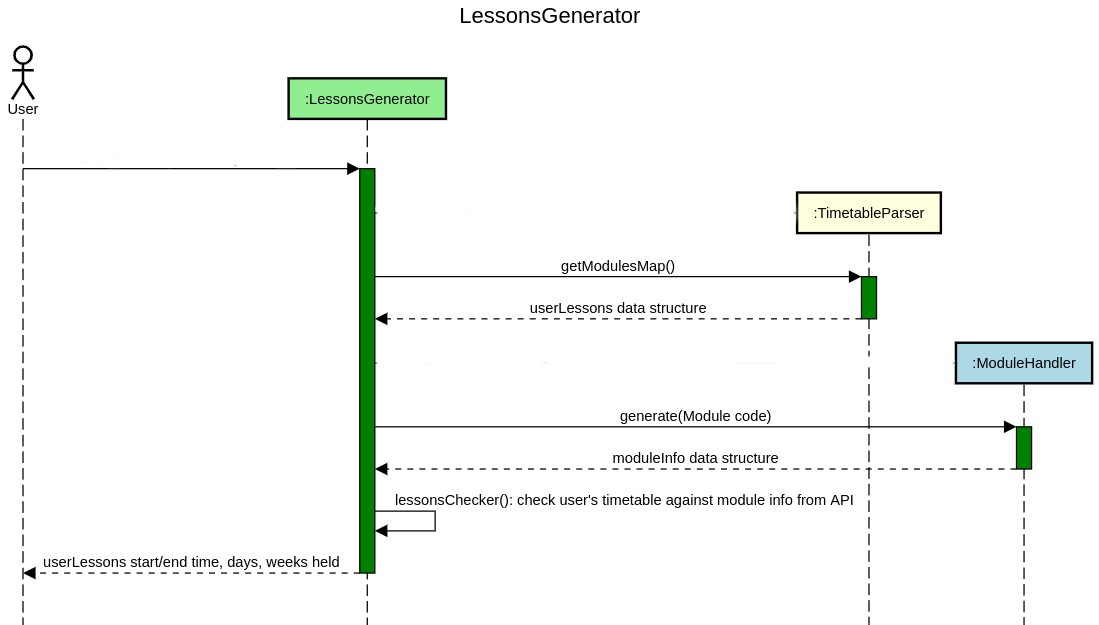
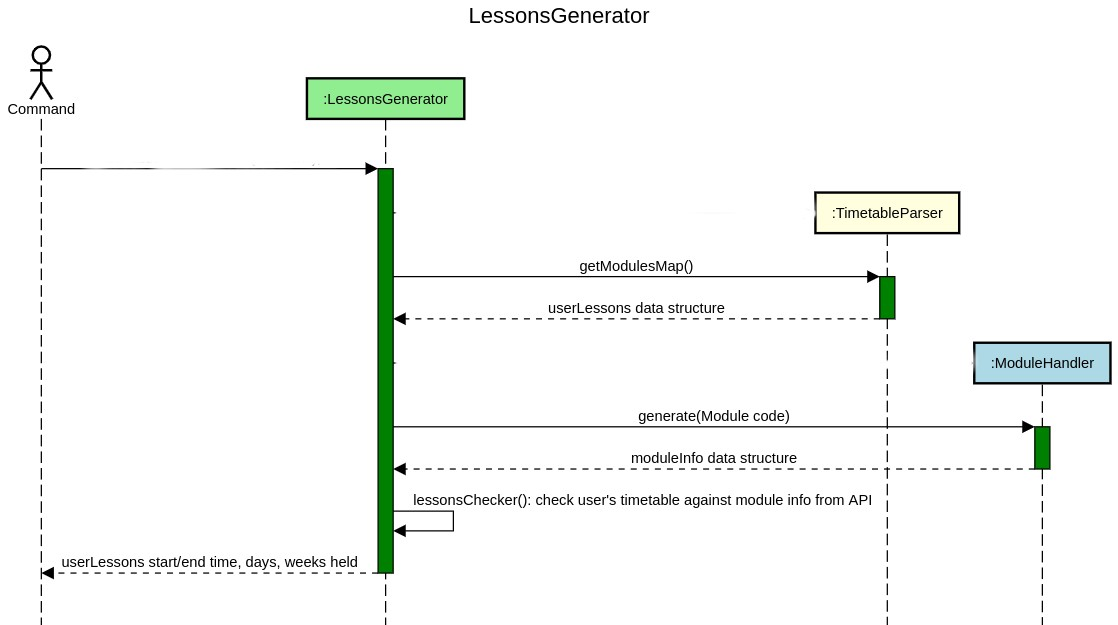
Updated dev guide with design of Logic.modulelogic and implementations of addcontact and listcontact

diff --git a/src/main/java/model/contact/Contact.java b/src/main/java/model/contact/Contact.java
@@ -101,17 +101,17 @@ public class Contact {
 
     /**
      * Defines the logic of converting from blocks of time and day of model.meeting to data structure.
-     * Used in addBusyBlocks().
+     * Used in addBusyBlocks() and addFreeBlocks()
      */
-    private void editBlocksLogic(Boolean blockedorfree, Integer startBlock, Integer endBlock, Integer startDay, Integer endDay,
+    private void editBlocksLogic(Boolean blockedOrFree, Integer startBlock, Integer endBlock, Integer startDay, Integer endDay,
                                     String meetingName, String[] onWeeks) throws MoException {
 
         String[] startOnWeeks = onWeeks.clone();
         String[] endOnWeeks = onWeeks.clone();
 
-        Boolean myScheduleStatus = blockedorfree;
+        Boolean myScheduleStatus = blockedOrFree;
         String myScheduleNameStatus = "null";
-        if (blockedorfree == MYSCHEDULEBLOCKED) {
+        if (blockedOrFree == MYSCHEDULEBLOCKED) {
             myScheduleNameStatus = meetingName;
         }
 
@@ -124,7 +124,7 @@ public class Contact {
             endDay -= 7;
             endOnWeeks[0] = Integer.toString(Integer.parseInt(endOnWeeks[0]) + 1);
         } else if (startDay > 6 && endDay < 7) {
-            throw new MoException("Meeting ends before it starts?");
+            throw new MoException("Meeting can't end before it starts.");
         }
 
         if (!startDay.equals(endDay)) {

diff --git a/docs/DeveloperGuide.md b/docs/DeveloperGuide.md
@@ -72,12 +72,13 @@ Here is q quick overview of each layer and the components residing in it.
 
 The UI consists of....
 ### 2.3. Logic component
-![Logic Component](images/logic component.png)<br>
+![Logic Component](images/logiccomponent.png)<br>
 
 The LogicManager is the brain and backbone of the logic component. It depends on 3 sub-components for it to work.
 First, LogicManager instantiates```schedulelogic``` and ```modulelogic``` sub-components to enable the generation of common time slots from NUSMODS links.
-Afterwards, ```command``` sub-component would be initialize to interpret the user commands. LogicManager forms a whole-part relationship with Model component, where
-all the data gathered from user commands would be stored.
+Afterwards, ```command``` sub-component would be initialize to interpret the user commands. LogicManager forms a whole-part relationship with the classes in the Model component, mainly 
+```ContactList``` and ```MeetingList``` where all the data gathered from user commands would be stored. LogicManager also stores a ```mainUser:Contact``` containing the user's timetable
+which is used to store scheduled meetings.
 
 ### 2.3.1. Logic.modulelogic component
 
@@ -92,31 +93,24 @@ The modulelogic component consists of 4 classes: ```TimetableParser```, ```Modul
 
 **Design of Logic.modulelogic component**
  
-![logic.modulelogic Component](images/TimetableParser.png)<br>
-The above figure shows```TimetableParser```, a private class called exclusively by ```LessonsGenerator```. It makes use of regex to sift through timetable link provided by user in the form of ```String``` object and stores
-the user's module information according to the timetable link provided. It depends on the ```common.Messages``` class to provide the exception message when an incorrect link is being parsed.<br>
+![logic.modulelogic Component](images/modulelogic.png)<br>
 
-![logic.modulelogic Component](images/ModuleHandler.jpg)<br>
-From the figure above, ```ModuleApiParser``` instantiates a HTTP GET request object to fetch a Json object from the open-sourced NUSMOD API server, and is called by ```ModuleHandler``` every time a particular module information is requested.
-```ModuleApiParser``` would return the moduleInformation in Json.
-
-Finally, ```ModuleHandler``` cleans the data and filter out any blacklisted modules provided by ```ModuleApiParser```, and stores an easy to use data structure to be used by ```LessonsGenerator```.
-
-Blacklisted modules are filtered out based on the data from ```common.BlacklistedModule```. 
-
-[NOTE] Blacklisted modules are modules that doesn't follow the conventional
-13 weeks programme and as such, ```ModuleHandler``` is unable to handle the JSON and parse it correctly.
-<br>
-<br>
+The above figure shows the interaction between the 4 classes in ```Logic.modulelogic``` sub-component whenever a new user keys in his/her NUSMODS link.
+1. ```ModuleApiParser``` controls the API fetching logic and instantiates a HTTP GET request object to fetch a Json object from the open-sourced NUSMOD API server via ```parse()```
+2. ```ModuleApiParser ``` is called by ```ModuleHandler``` every time a new module is requested.
+4. Subsequently, ```ModuleHandler``` would clean the data and filter out any blacklisted modules provided by ```ModuleApiParser```, and stores the information into an ```ArrayList<ArrayList<String>>``` data structure to be used by ```LessonsGenerator```.
+   Blacklisted modules are filtered out based on the data from ```common.BlacklistedModule```. 
+3. Next, ```TimetableParser``` fetches the module information a user is currently taking from his/her timetable link via ```parse()```. ```parse()``` and ```parseModule()```  makes use of regex to sift through timetable link provided by user in the form of ```String``` object and stores
+the information in a ```Map<String, ArrayList<String>>``` data structure as seen from the figure. 
+4. This sub-component also depends on the ```common.Messages``` class to provide the exception message when an incorrect link is being parsed.<br>
 
 ![logic.modulelogic Component](images/LessonsGenerator.jpg)<br>
 
 The above figure shows a full overview of the UML sequence of the entire Logic.modulelogic component.<br>
 
-The last step would be for ```LessonsGenerator``` to collate the returned data structure from both ```ModuleHandler``` and ```TimetableParser```, calling```.lessonsChecker()``` simultaneously to create a set of information containing the start-time, end-time, day, weeks of the modules that a user is taking.
- <br>
+```LessonsGenerator``` collates the returned data structure from both ```ModuleHandler``` and ```TimetableParser```, calling```.lessonsChecker()``` simultaneously to create a set of information containing the start-time, end-time, day, weeks of the modules that a user is taking.
  
- The information returned from ```LessonsGenerator``` would then be used in Logic.schedulelogic component.
+The information returned from ```LessonsGenerator``` would then be used in ```Command``` component.
  
 ### 2.3.2. Logic.schedulelogic component
 
@@ -126,7 +120,7 @@ The ```schedulelogic``` consists of the class ```ScheduleHandler```.
 1. ```ScheduleHandler``` retrieves the schedule of selected ```Contact```s in the ```ContactList```, to generate a combined schedule.
 2. ```ScheduleHandler``` checks if a time slot fits in the main user's schedule.
 
-**Detailed implementation of logic.schedulelogic component**
+**Design of Logic.schedulelogic component**
 
 ### 2.3.4. logic.commands component
 The ```commands``` component interprets the user command and call the ```modulelogic``` and ```schedulelogic``` components.
@@ -151,6 +145,8 @@ The ```contact``` component of our application consists of 2 classes: ```TeamMem
 ### 2.6. Exception classes
 
 ### 2.7. Common classes
+Classes used by multiple components are in the ```commons``` package. These includes exception classes, information of 
+blacklisted modules as well as output messages to be shown to users when exception occurs.
 
 
 ## 3. Implementation
@@ -158,9 +154,22 @@ This section describes some noteworthy details of how the main features of our a
 
 There are 6 main features: add new contact, list all contacts, display combined timetable of selected contacts, schedule a new meeting, delete a scheduled meeting, list all scheduled meetings.
 ### 3.1 Add new contact
+![Add Contact](images/AddContact.png)<br>
+
+The above figure show the sequence diagram for how the add contact mechanism works.
+
+Given below is an example usage scenario and how the ```add contact``` command behaves.
+
+1. The user running the application invokes the ```LogicManager``` by typing ```name nusmodslink```, followed by kbd:[enter] key.
+2. ```LogicManager```would then request for a new contact by calling ```CommandHandler```.
+3. ```CommandHandler``` would call ```generate()``` on ```LessonsGenerator``` to retrieve the lesson's start/end time, start/end day, and the number of weeks the lesson is held.
+4. ```CommandHandler``` would also instantiate a new ```Contact``` and append the busy slots that were previously generated by ```generate()```.
+5. Subsequently, control would be shifted back to ```LogicManager``` where the new ```Contact``` would be returned by ```CommandHandler```.
+6. ```LogicManager``` checks if the ```Contact``` is a main user and calls ```setMainUser()``` accordingly.
+7. The final procedure is to append the new ```Contact``` into ```ContactList``` found in the ```model``` component.
 
 ### 3.1.1 Design Considerations
-**Aspect 1: Fetching of module information**
+**Aspect 1: Optimizing fetching of module information**
 * Alternative 1(current choice): Instantiate a ```ModuleHandler``` every time there's a request for a module information.
 Pros: The classes are intuitively separated and data structures returned is understandable.
 Cons: Program runs slower for every extra timetable or extra modules taken since its a new instantiation of a ```ModuleHandler```.
@@ -168,7 +177,7 @@ Cons: Program runs slower for every extra timetable or extra modules taken since
 Pros: Takes up less memory and setup time for every timetable provided compared to alternative 1.
 Cons: The data structure returned by ```ModuleHandler``` would be complicated and confusing for new developers.
 
-**Aspect 2: Storing blacklisted module information**
+**Aspect 2: Ways of storing blacklisted module**
 * Alternative 1(current choice): Create a ```common.BlacklistedModule``` and hash every hard-coded blacklisted module as a constant ```HashSet```.
 Pros: There is no need for user to download the blacklisted module, and only the JAR file is required to run this entire application.
 Also, user do not need to have a one time set-up where they would wait several minutes for the application to dynamically pull the blacklisted modules from Nusmods API server.
@@ -184,7 +193,16 @@ Cons: Developers would still have to run the method to dynamically pull the blac
 Alternative 1. Furthermore, users are required to download the blacklisted file published by the developers every semester in order for the list to be up-to-date.
 
 ### 3.2 List all contacts
+![Add Contact](images/ListContact.png)<br>
 
+The figure above shows the sequence diagram of listing all contacts the user has. It consists of 4 classes:```LogicManager Commandhandler TextUI ContactList``` .
+1. The user invokes the LogicManager by typing ```contacts```, followed by kbd:[enter] key.
+2. The ```LogicManager``` would then request to list all contacts via ```CommandHandler```.
+3. The ```CommandHandler``` would call ```getContactList()``` on ```ContactList``` from storage and then using the ContactList retrieved, it then calls ```ListMsgUI()``` from ```TextUI``` class.
+4. The result is that ```TextUI``` would return a ```System.out.println``` of all the contacts the user have.
+
+
+Given below is an example usage and how ```list contact``` command behaves.
 ### 3.3 Display timetable of selected contacts
 
 ### 3.4 Schedule a new meeting
@@ -211,25 +229,44 @@ Target user profile:
 
 
 ### A.2. Value proposition
-
-{Describe the value proposition: what problem does it solve?}
+* By using this application, NUS students/staff are able to save time planning schedule for their group meetings by simply providing
+the application with their respective NUSMODS website link instead of manually keying in their timetable individually.
+* Our application allows NUS students/staff to save their scheduled meeting into their timetable. Our application would take the user's
+meetings into account when scheduling a common timeslot timetable.
+* Our application provides NUS students/staff with a friendly CLI-based timetable interface when scheduling common-timeslots.
 
 ## Appendix B: User Stories
 
 |Version| As a ... | I want to ... | So that I can ...|
 |--------|----------|---------------|------------------|
-|v1.0|new user|see usage instructions|refer to them when I forget how to use the application|
-|v2.0|user|find a to-do item by name|locate a to-do without having to go through the entire list|
-
+|v1.0| As a student | I want to delete the meetings in the calendar| so that I can afford to make mistakes while planning for the meeting. |
+|v1.0| student with many friends | I want to schedule lunch dates with my friends | so that i can maintain my social circle.  |
+|v1.0| As a TA | I want to organize my timetable and consult sessions | so that it can all be in one place.  |
+|v1.0| As a student who uses various calendars | I want to schedule everything in one place | so that i can access all my events from one medium.  |
+|v1.0| As a forgetful student | I tend to forget which project meetings I have planned for the week and hence| so the application allows me to save the schedule and look through it for reference.  |
+|v1.0| As a busy student | I want to have more family outings without sacrificing my lecture/tutorial timings |  so that I can score good grades and have a life both at the same time. |
+|v2.0| As an impatient student | I want to directly copy/paste timetable links | so that i can instantly generate suitable time slots for our project meetings. |
+|v2.0| As a student | I want to use this to be organized in terms of what meetings i have for the coming week | so that I would be a responsible team member who shows up at every meeting. |
+|v2.0| As a busy student | I want to use this application to manage my schedule  | so that i can plan my time wisely. |
+|v2.0| As a TA | I want to use this to schedule consults and marking sessions without sacrificing my tutorial/lecture slots | so that I can get the best TA award and maintain my grades at the same time. |
+|v2.0| As a lazy student | I want to use this application to automatically sync my previous meeting onto a new schedule profile | so that I can automatically block out dates instead of typing it manually. |
+|v2.0| As a student | I want to see the list of upcoming meeting dates  | so that i can remind myself which meetings i have to go for in the coming week. |
+|v2.0| a | a | a |
 ## Appendix C: Use Cases
 
 ## Appendix D: Non-Functional Requirements
 
-{Give non-functional requirements}
+1. Should work on any mainstream OS as long as it has Java 11 SDK or above installed.
+2. Should be able to hold up to hundreds of meetings and timetables without a noticeable increase in application's performance and latency.
+3. A fast typist user preferring CLI applications, with above average typing speed(>65wpm) for regular English text should be able to accomplish most tasks faster than a GUI application using mouse.
+4. Should come with automated unit tests in case you encounter any bugs while developing new feature, and it should be open sourced for the anyone.
+5. Should work on both 32-bit and 64-bit environments.
+6. Should not exceed 100MB in size given normal usage.
 
 ## Appendix E: Glossary
 
-* *glossary item* - Definition
+* *Blacklisted modules* - Blacklisted modules are modules that doesn't follow the conventional 13 weeks programme and as such, the JSON pulled from NUSMODS api is unable to be processed by ```Logic.modulelogic``` component.
+<br>
 
 ## Appendix F: Product Survey
 
